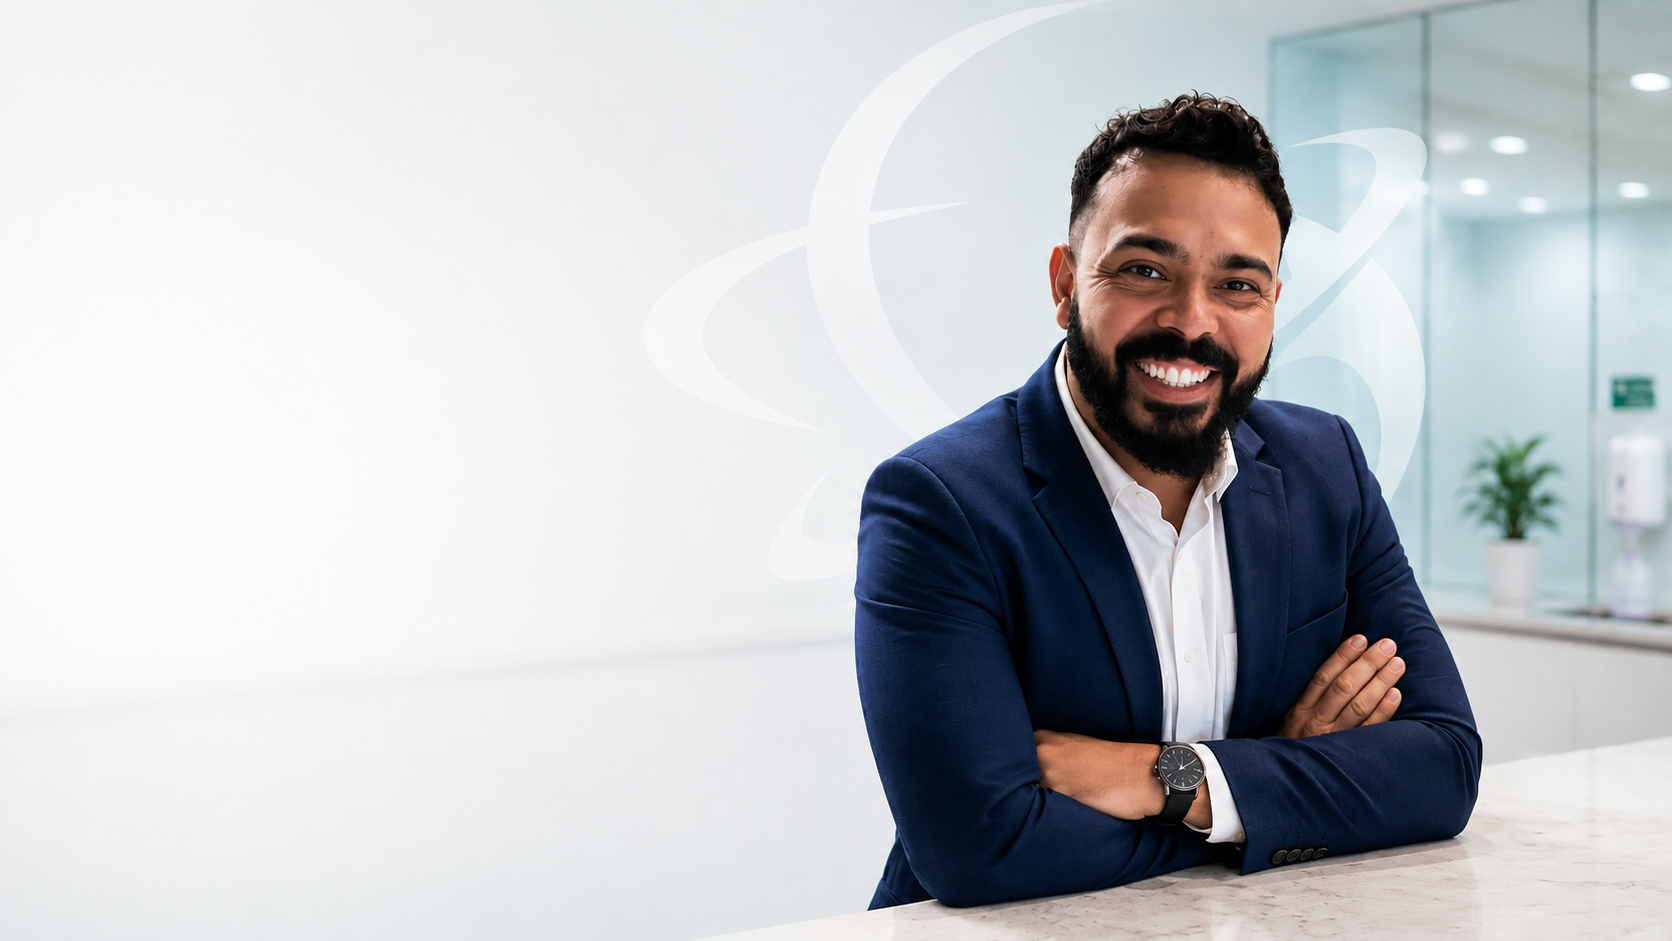
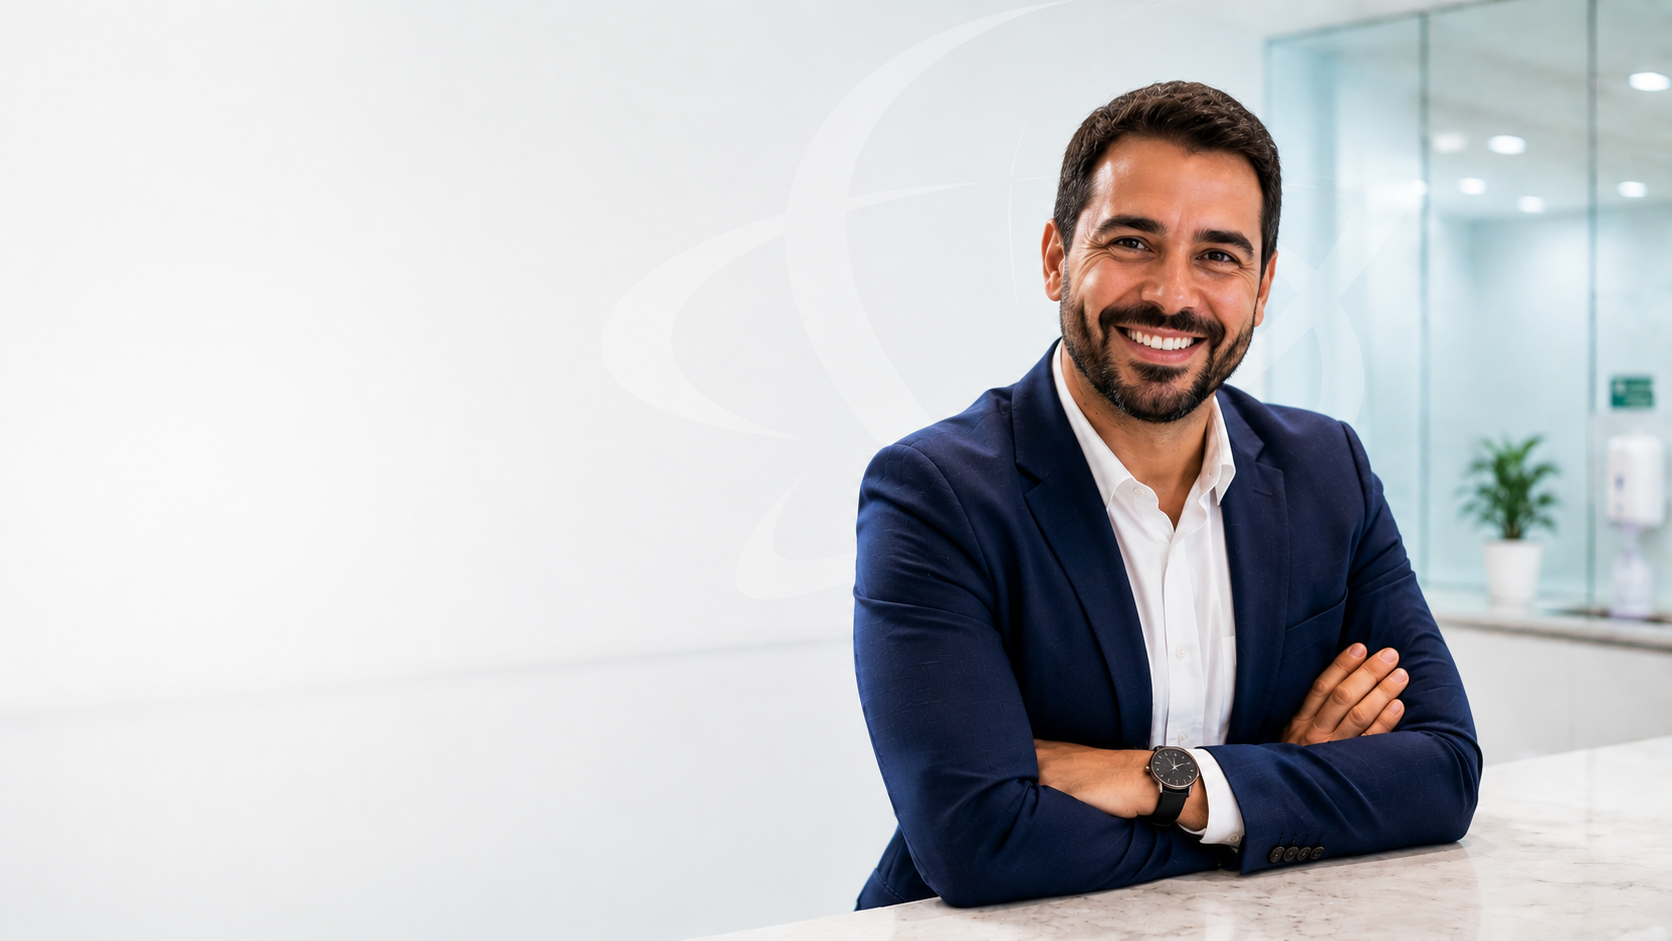
Atualiza imagens e padroniza componentes visuais

Changed region(s): [[0.4976, 0.0308, 0.9019, 0.9862], [0.9019, 0.5239, 0.933, 0.6164], [0.8708, 0.4931, 0.9019, 0.5239]]

diff --git a/index.html b/index.html
@@ -67,9 +67,9 @@
 
     <section class="process section"><div class="wrap"><header class="center-title process-heading reveal"><span class="pill">Como funciona</span><h2>Um processo organizado do<br> diagnóstico à conformidade.</h2></header><div class="process-line reveal"><article><b>01</b><h3>Entendemos sua operação</h3><p>Conhecemos sua atividade, estabelecimento e situação atual.</p></article><article><b>02</b><h3>Identificamos as exigências</h3><p>Analisamos quais requisitos sanitários precisam ser considerados.</p></article><article><b>03</b><h3>Avaliamos a empresa</h3><p>Documentação, estrutura física, procedimentos, organização e demais pontos aplicáveis.</p></article><article><b>04</b><h3>Definimos prioridades</h3><p>As adequações são organizadas de acordo com sua importância e criticidade.</p></article><article><b>05</b><h3>Acompanhamos a evolução</h3><p>Quando contratado, continuamos assessorando a empresa durante a implantação das adequações e manutenção da conformidade.</p></article></div></div></section>
 
-    <section class="segments section"><div class="wrap editorial-grid"><div class="editorial-copy reveal"><span class="pill">Segmentos atendidos</span><h2>Conhecimento regulatório aplicado à realidade de cada negócio.</h2><p>A SanitSmart pode atender empresas de diferentes setores sujeitos à Vigilância Sanitária.</p><a class="button button-blue" href="segmentos.html">Ver soluções para meu segmento <span>→</span></a></div><div class="segment-cloud reveal"><span>Clínicas e consultórios</span><span>Estabelecimentos de estética</span><span>Serviços de saúde</span><span>Laboratórios</span><span>Farmácias e drogarias</span><span>Alimentos e serviços de alimentação</span><span>Distribuidoras</span><span>Indústrias</span><span>Redes e franquias</span><span>Outras atividades sujeitas ao controle sanitário</span></div></div></section>
+    <section class="segments section"><div class="wrap editorial-grid"><div class="editorial-copy reveal"><span class="pill">Segmentos atendidos</span><h2>Conhecimento regulatório aplicado à realidade de cada negócio.</h2><p>A SanitSmart pode atender empresas de diferentes setores sujeitos à Vigilância Sanitária.</p><a class="button button-blue conversion-cta" href="segmentos.html">Ver soluções para meu segmento <span>➜</span></a></div><div class="segment-cloud reveal"><span>Clínicas e consultórios</span><span>Estabelecimentos de estética</span><span>Serviços de saúde</span><span>Laboratórios</span><span>Farmácias e drogarias</span><span>Alimentos e serviços de alimentação</span><span>Distribuidoras</span><span>Indústrias</span><span>Redes e franquias</span><span>Outras atividades sujeitas ao controle sanitário</span></div></div></section>
 
-    <section class="content section"><div class="wrap editorial-grid"><div class="book-visual reveal"><div class="book-cover"><small>SANITSMART</small><h3>Conformidade antes da fiscalização.</h3><span>GUIAS E CONTEÚDOS</span></div></div><div class="editorial-copy reveal"><span class="pill">E-books e Conteúdos</span><h2>Informação para tomar decisões com mais segurança.</h2><p>Preparamos materiais gratuitos sobre licenciamento, fiscalização, documentação e conformidade sanitária.</p><a class="button button-blue" href="ebooks.html">Acessar biblioteca gratuita <span>→</span></a></div></div></section>
+    <section class="content section"><div class="wrap editorial-grid"><div class="book-visual book-photo reveal"><img src="ebooks-conteudos.png" alt="Cadernos, materiais institucionais e checklist da SanitSmart" loading="lazy"></div><div class="editorial-copy reveal"><span class="pill">E-books e Conteúdos</span><h2>Informação para tomar decisões com mais segurança.</h2><p>Preparamos materiais gratuitos sobre licenciamento, fiscalização, documentação e conformidade sanitária.</p><a class="button button-blue conversion-cta" href="ebooks.html">Acessar biblioteca gratuita <span>➜</span></a></div></div></section>
   </main>
   <footer><div class="wrap footer-grid"><div><img class="footer-logo" src="logo.png" alt="SanitSmart" loading="lazy"><p>Consultoria especializada em Licenciamento Sanitário.</p><p>Atendimento em todo o Brasil</p></div><div><h3>Navegação</h3><a href="index.html">Início</a><a href="sobre.html">Sobre</a><a href="servicos.html">Serviços</a><a href="segmentos.html">Segmentos</a><a href="ebooks.html">E-books</a><a href="contato.html">Contato</a></div><div><h3>Serviços</h3><a href="servicos.html">Diagnóstico Sanitário</a><a href="servicos.html">Licenciamento</a><a href="servicos.html">Regularização</a><a href="servicos.html">Documentação</a><a href="servicos.html">Assessoria Mensal</a><a href="servicos.html">Compliance Sanitário</a></div><div><h3>Conteúdo</h3><a href="ebooks.html">E-books</a><a href="duvidas.html">Perguntas Frequentes</a><h3>Contato</h3><a href="https://wa.me/">WhatsApp</a><a href="mailto:">E-mail</a><a href="#">Instagram</a></div></div><div class="wrap copyright"><div><a href="#">Política de Privacidade</a><a href="#">Termos de Uso</a><span>© SanitSmart — Todos os direitos reservados.</span></div><img src="inovalogix-logo.png" alt="InovaLogix" loading="lazy"></div></footer>
   <a class="whatsapp-float" href="https://wa.me/" target="_blank" rel="noopener noreferrer" aria-label="Falar pelo WhatsApp agora!">

diff --git a/site.css b/site.css
@@ -228,3 +228,9 @@ h1,h2,h3,p,a,li,label{overflow-wrap:break-word}
   .footer-grid{grid-template-columns:1.6fr 1fr 1fr 1fr}
 }
 
+/* Sincronia final dos componentes com o design system da Home */
+.main-nav a,.footer-col a,.btn{transition:color .3s ease,background-color .3s ease,transform .3s cubic-bezier(.16,1,.3,1),box-shadow .3s ease}
+.btn:after{display:flex;align-items:center;justify-content:center;line-height:1;transform:translateY(-1px)}
+.page-hero-shell,.info-block,.service-row,.segment-card,.book-card,.form,.direct,.cta{isolation:isolate}
+@media(hover:hover){.main-nav a:hover{color:var(--green)}.btn:hover:after{transform:translateY(-1px) translateX(2px)}}
+

diff --git a/home.css b/home.css
@@ -468,3 +468,9 @@ h1,h2,h3,p,a,li{overflow-wrap:break-word}
   .section{padding-block:clamp(54px,6vw,76px)}
   .fine-list strong{font-size:clamp(1.2rem,1.65vw,1.65rem)}
 }
+
+/* Fotografia da seção E-books e Conteúdos */
+.book-photo{min-height:0;aspect-ratio:1;overflow:hidden;background:var(--paper)}
+.book-photo>img{width:100%;height:100%;object-fit:cover;border-radius:inherit;transition:transform .7s cubic-bezier(.16,1,.3,1)}
+.book-photo:hover>img{transform:scale(1.025)}
+@media(max-width:767px){.book-photo{width:100%;min-height:0;aspect-ratio:1}}
